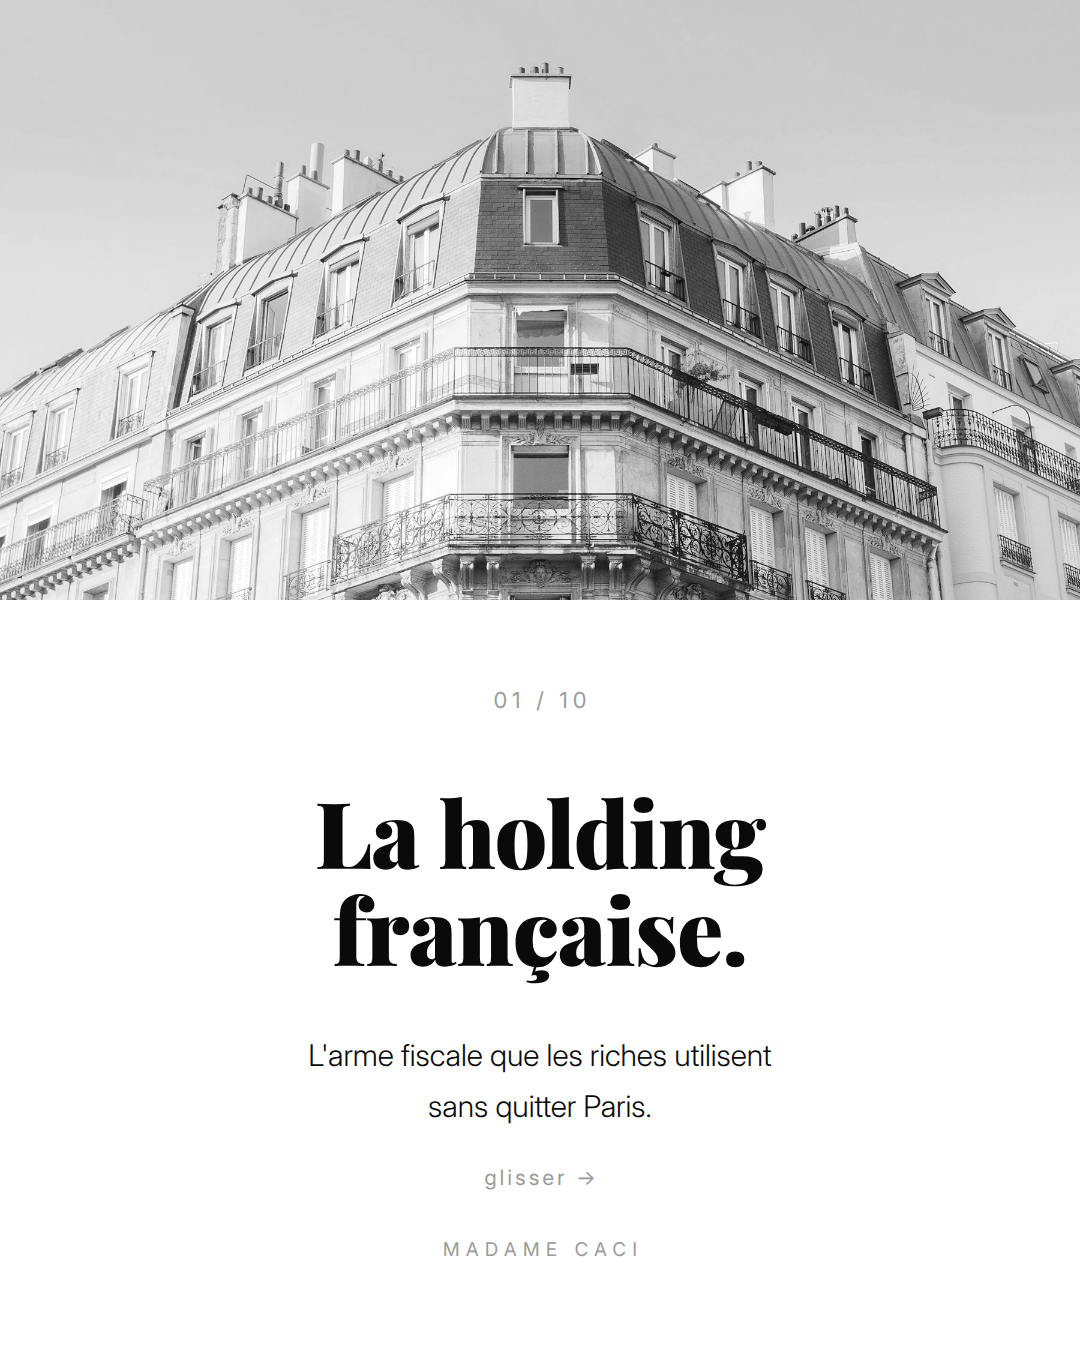
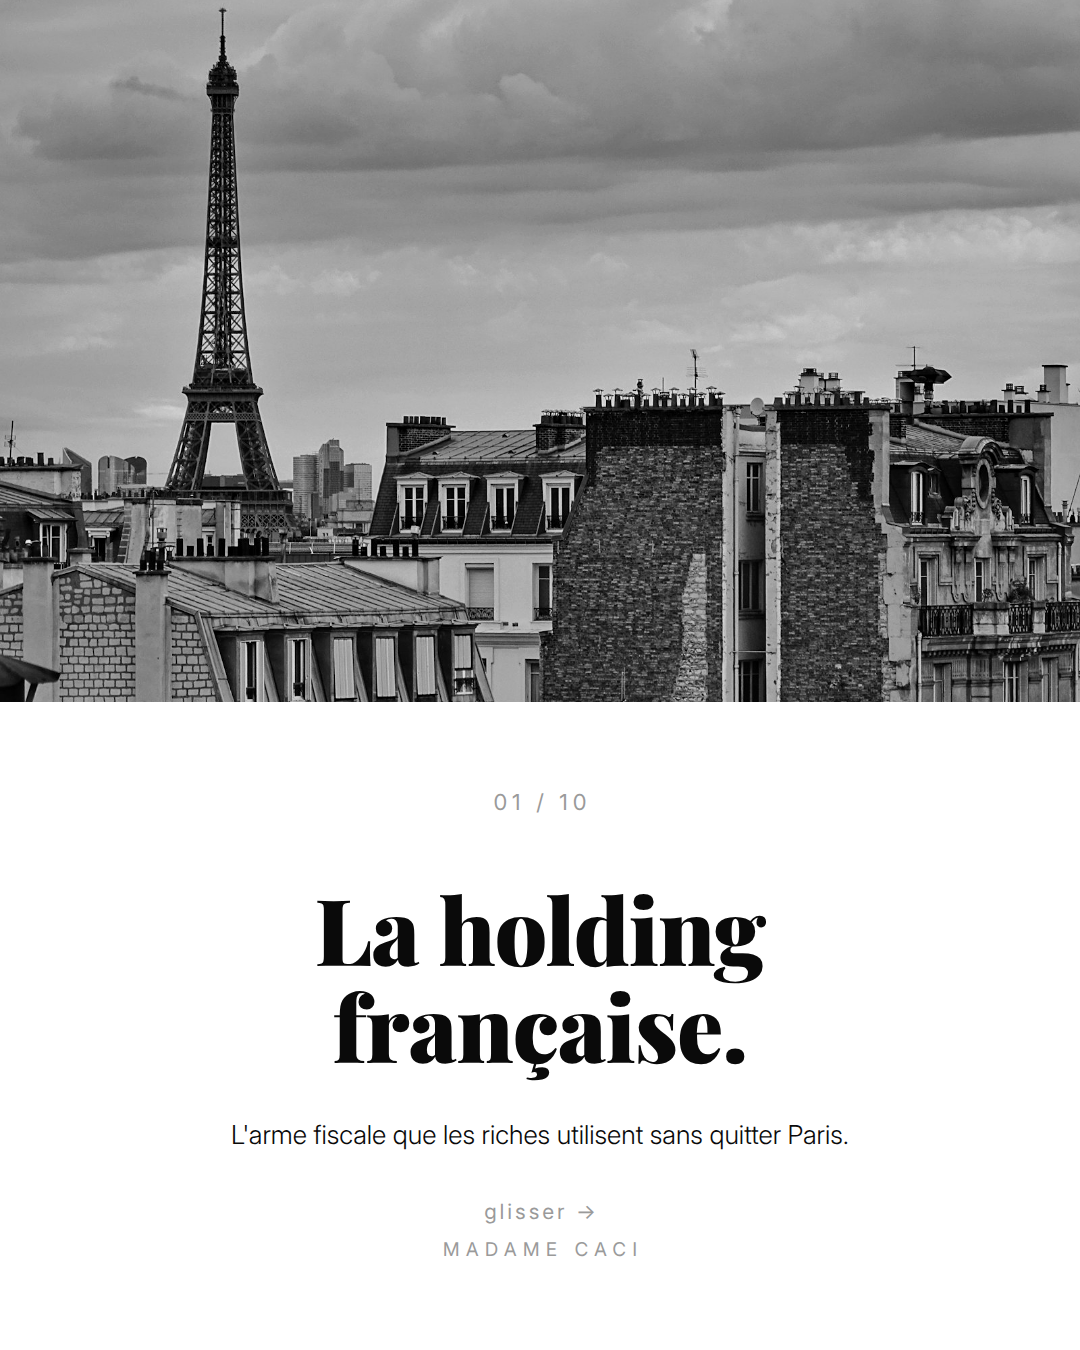
Couverture holding : photo plus graphique et titre plus grand
La facade haussmannienne, pale et a ciel plat, laissait la couverture
sans noirs : illisible comme accroche dans un feed. Remplacee par les
toits de Paris sous un ciel d'orage, avec la silhouette de la tour :
la ville se reconnait au pouce, et l'image porte de vrais noirs.

Bandeau a 52% de la hauteur plutot que 45, titre a 92px, sous-titre
ramene sur une seule ligne a 26px : proportions arbitrees en comparant
deux montages (52% et 65%) reduits a 300px.

Claude-Session: https://claude.ai/code/session_01JgjaVc8GDMA4sZRNpbXpxq

diff --git a/carrousel/src/slides-holding.js b/carrousel/src/slides-holding.js
@@ -7,6 +7,8 @@
 const fs = require('fs');
 const path = require('path');
 
+const COVER = Number(process.env.COVER_BAND || 702);   /* hauteur du bandeau de couverture */
+
 const DECOR = '';                     /* aucun décor : c'est la règle du style */
 
 /* bandeau photo : noir et blanc, bords francs ; repli gris si le fichier manque */
@@ -26,7 +28,7 @@ const slide = ({ n, photo = '', free: [t, b] = [0, 1350], blocks, swipe = false,
       <div class="stack" style="top:${Math.round((t + b) / 2) + shift}px">
         ${blocks}
       </div>
-      ${swipe ? `<div class="ed-swipe" style="top:${b - 184}px">glisser &rarr;</div>` : ''}
+      ${swipe ? `<div class="ed-swipe" style="top:${b - 150}px">glisser &rarr;</div>` : ''}
       <div class="ed-sign" style="top:${b - 112 - Math.round((sign - 19) * 1.3)}px;font-size:${sign}px">MADAME CACI</div>`
 });
 
@@ -34,11 +36,12 @@ module.exports = { DECOR, slides: [
 
   /* ================= 01 · COUVERTURE ================= */
   slide({
-    n: 1, free: [600, 1350], swipe: true, shift: -16,
-    photo: band('01-haussmann.jpg', 'paris haussmann architecture facade', 0, 600),
+    n: 1, free: [COVER, 1350], swipe: true, shift: -6,
+    photo: band('01-paris.jpg', 'paris rooftops eiffel tower', 0, COVER),
     blocks: `
-        <h1 class="h1" style="font-size:92px">La holding<br>française.</h1>
-        <p class="p" style="max-width:480px">L'arme fiscale que les riches utilisent sans quitter Paris.</p>`
+        <h1 class="h1" style="font-size:${COVER > 760 ? 78 : 92}px">La holding<br>française.</h1>
+        <p class="p" style="font-size:26px;margin-top:40px;max-width:880px">L'arme fiscale que les
+          riches utilisent sans quitter Paris.</p>`
   }),
 
   /* ================= 02 · LE PARADOXE ================= */

diff --git a/carrousel/slides/holding/slide-01.html b/carrousel/slides/holding/slide-01.html
@@ -10,14 +10,15 @@
 
   <div class="num">01</div>
 
-      <div class="ph bleed" style="left:0;top:0px;width:1080px;height:600px"><img src="../../assets/holding/01-haussmann.jpg" alt=""></div>
-      <div class="ed-nav" style="top:688px">01 / 10</div>
-      <div class="stack" style="top:959px">
+      <div class="ph bleed" style="left:0;top:0px;width:1080px;height:702px"><img src="../../assets/holding/01-paris.jpg" alt=""></div>
+      <div class="ed-nav" style="top:790px">01 / 10</div>
+      <div class="stack" style="top:1020px">
         
         <h1 class="h1" style="font-size:92px">La holding<br>française.</h1>
-        <p class="p" style="max-width:480px">L'arme fiscale que les riches utilisent sans quitter Paris.</p>
+        <p class="p" style="font-size:26px;margin-top:40px;max-width:880px">L'arme fiscale que les
+          riches utilisent sans quitter Paris.</p>
       </div>
-      <div class="ed-swipe" style="top:1166px">glisser &rarr;</div>
+      <div class="ed-swipe" style="top:1200px">glisser &rarr;</div>
       <div class="ed-sign" style="top:1238px;font-size:19px">MADAME CACI</div>
 </div>
 </body>
